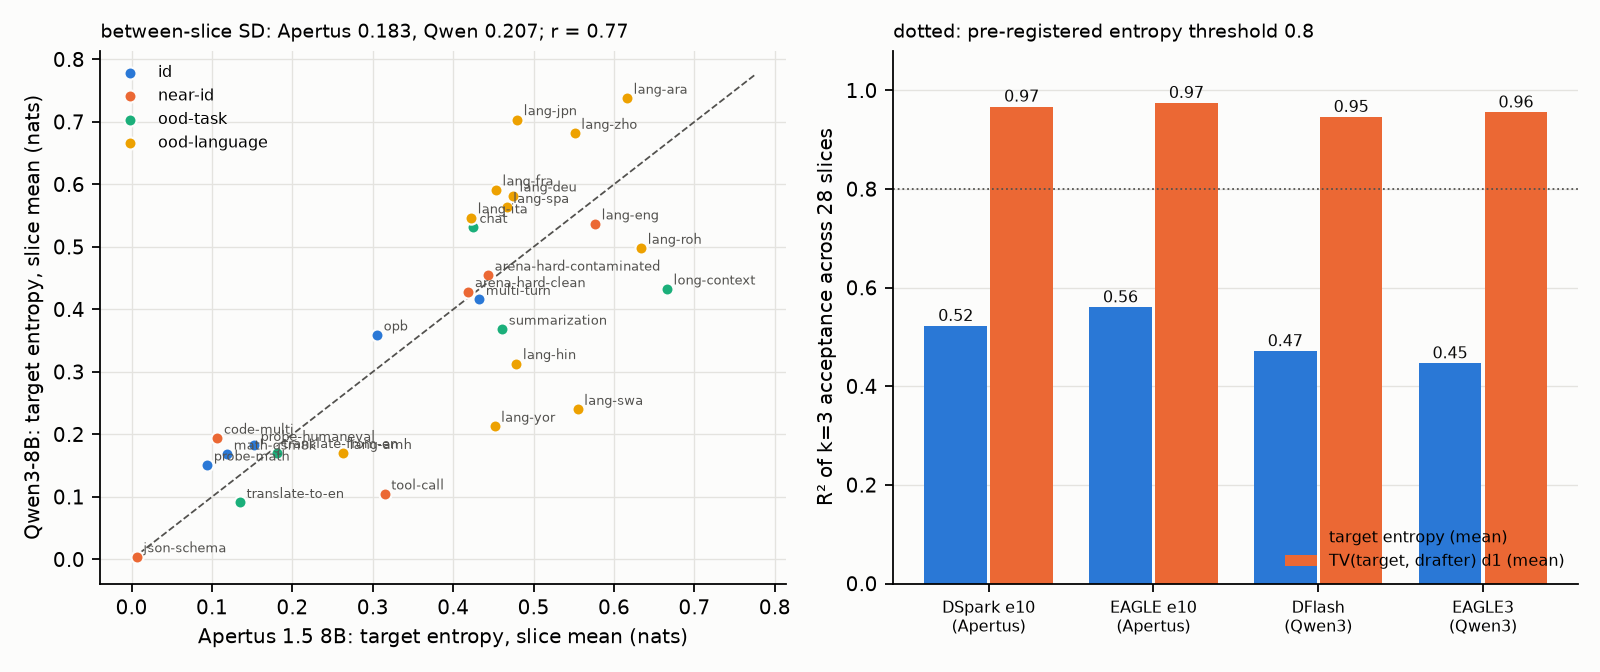
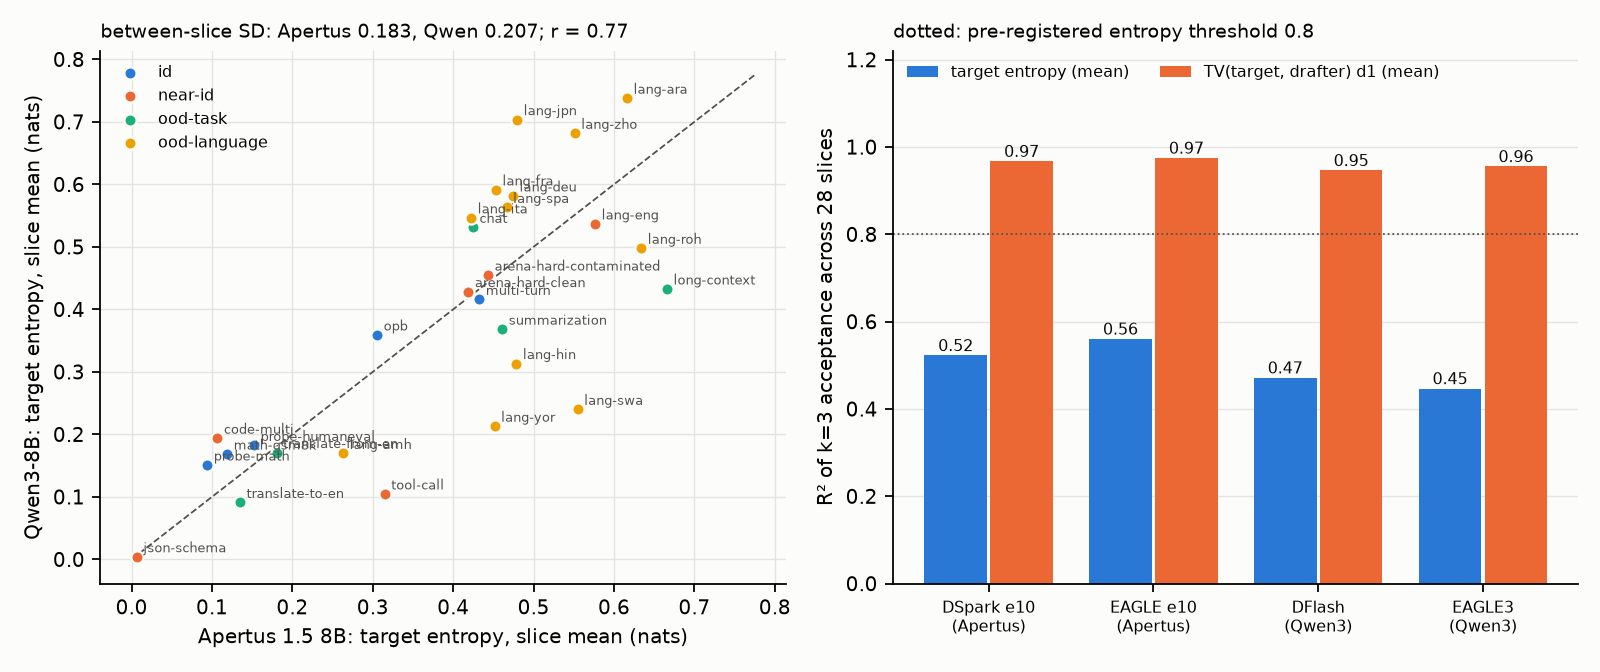
Keep the cross-model legend off the R² bars
The legend overlapped the bars of the right panel; move it above them.
The JSON output is unchanged.

diff --git a/experiments/workload-shape/cross_model.py b/experiments/workload-shape/cross_model.py
@@ -173,9 +173,9 @@ def main() -> None:
     ax.axhline(0.8, color=INK2, lw=0.8, ls=":")
     ax.set_xticks(x)
     ax.set_xticklabels(labels, fontsize=7)
-    ax.set_ylim(0, 1.08)
+    ax.set_ylim(0, 1.22)
     ax.set_ylabel("R² of k=3 acceptance across 28 slices")
-    ax.legend(fontsize=7, frameon=False, loc="lower right")
+    ax.legend(fontsize=7, frameon=False, loc="upper left", ncol=2)
     ax.set_title("dotted: pre-registered entropy threshold 0.8", fontsize=8.5, loc="left")
     for a in axes:
         for side in ("top", "right"):
